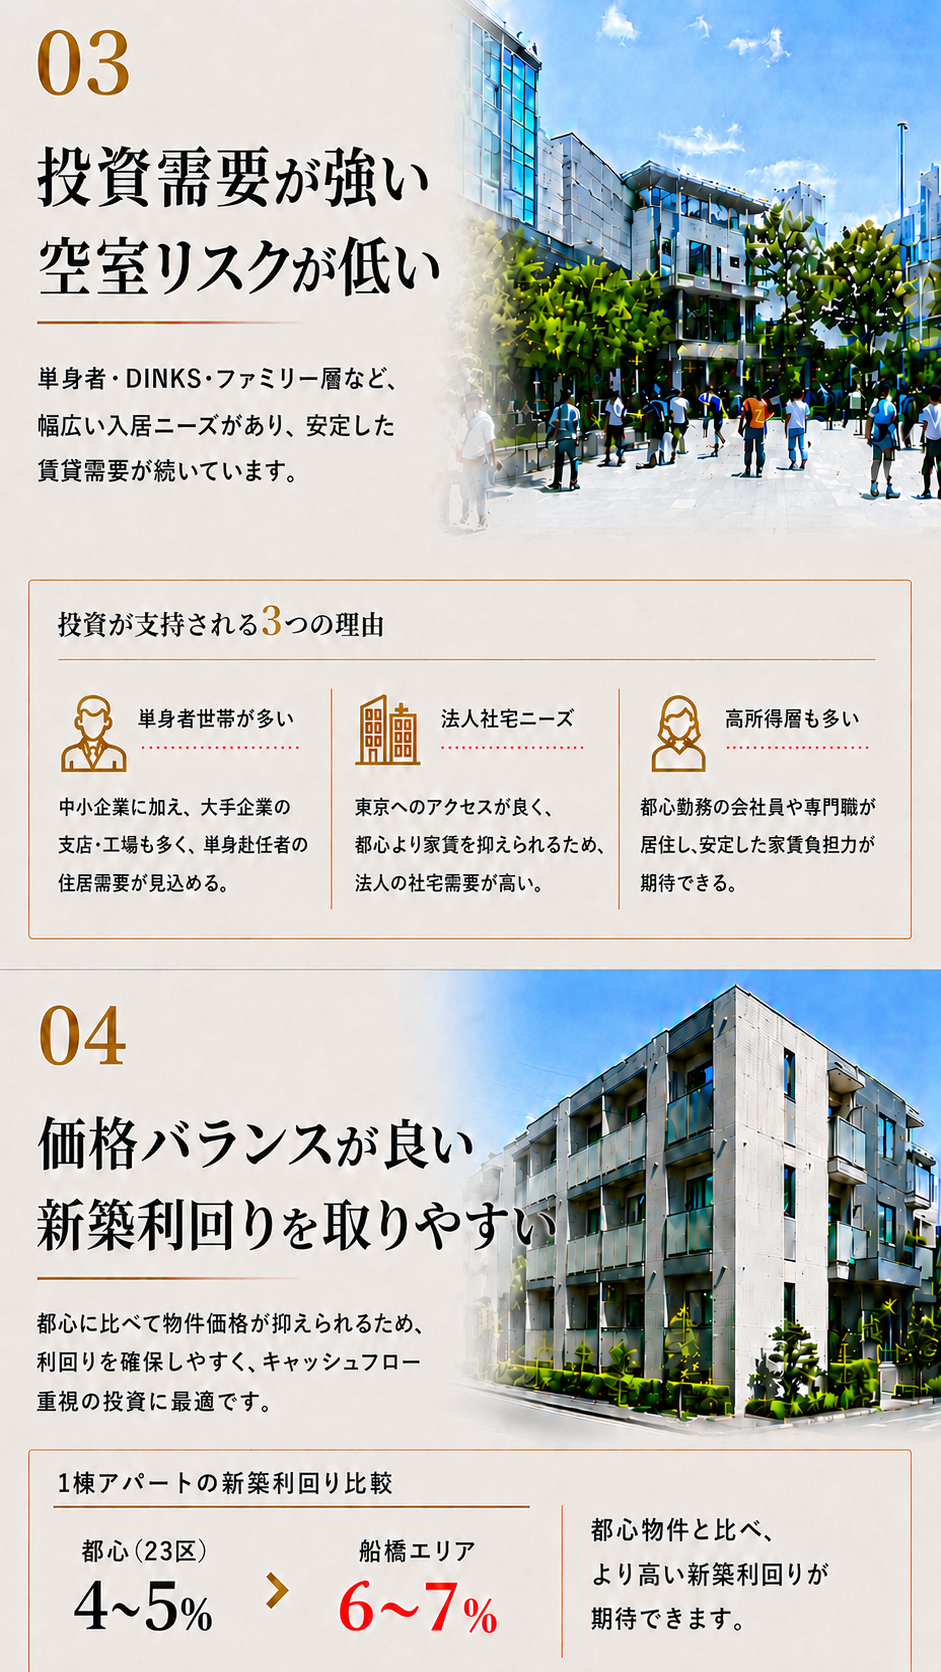
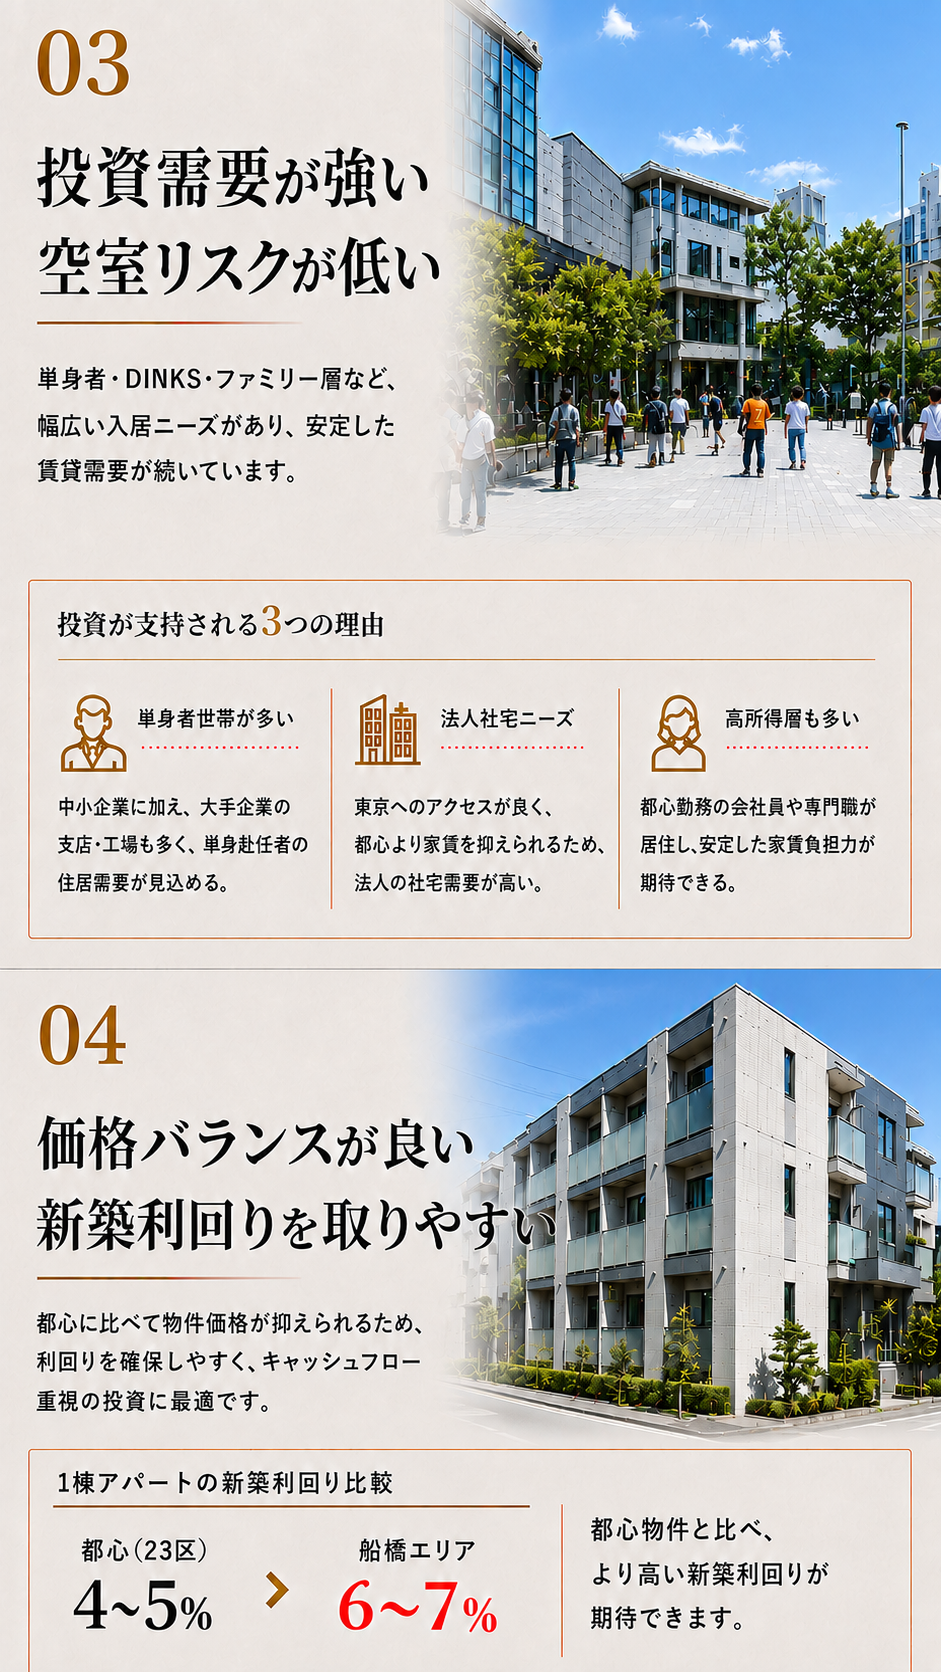
9枚目の最新修正を反映

diff --git a/index.html b/index.html
@@ -131,7 +131,7 @@
 
       <div class="lp__image">
         <img
-          src="./img/9.png?v=202608271828"
+          src="./img/9.png?v=202608271843"
           alt="船橋の不動産投資についてのご案内"
           width="941"
           height="1672"
